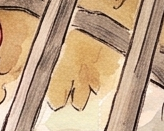
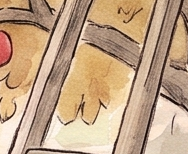
第3回：監査の差し戻し1に対応（第5問②はしごの段の範囲を輪郭と両端まで広げる・第5問③の物の幅を実測60pxに）、ショートは監査合格
Claude-Session: https://claude.ai/code/session_01RF3BnfrPSRk1U21VXW6Yry

diff --git a/departments/audit/log.md b/departments/audit/log.md
@@ -14,3 +14,5 @@
 | 2026-11-07 | 002（再審査1） | 本番 第2回 秋の間違い探し5問「いちょうと菊」video.mp4（2026-11-07 01:30版・615秒）・q1/q4/q5_b・answers.json・timeline.json・plan.md・cost.md（コミット 79bd8ad） | 合格 | 前回の5点は解消：(1) 第4問②・第5問②は、画面の大きさ（960×1080）でも3倍に拡大しても、はす口・鳥の輪郭は見えない。本物の線の外で、a より暗く紙より8段階以上暗い画素は第5問0、第4問14（塀のにじみの所で、残像の形ではない）。(2) 第4問③はけむりを元に戻し、地面の落ち葉1枚の左右反転に差し替え（範囲 [366,1603,466,1675]、物の幅1.89%・変わった範囲2.07%、許容0.2の内で中級の「向き」）。画面で向きの違いがわかる。(3) 第1問②は増えた1輪だけを壁の所に貼り、元の3輪は差0（変わった範囲3.61%）。(4) u3 は「中国では、葉の形が鴨の足に似ているので『鴨脚』と書いたそうです。」、カード「鴨脚（ヤーチャオ）」。出典は大辞泉（表記・宋音）と近畿大学資料・公孫樹譜（見立て）で合う。声は6.73秒で8秒の枠に収まる。(5) cost.md：入力7,830、声56回・1,043字（usage.jsonl と一致）、残高の差0.046935ドル。範囲の外の差は全問で範囲から11px以内。q2・q3 と a の絵、説明欄、サムネは前の審査から変わっていない。44セリフとも枠に収まる。注意：u3 の声は「鴨脚」を意味で「かものあし」と読み、カードの読み「ヤーチャオ」と違うが、事実の誤りではないので認める。一発合格ではない（差し戻し1回）。 |
 | 2026-11-08 | 001 ショート | 第1回 第4問（台所・中級）縦1080×1920・42.6秒 video.mp4（4,215,015バイト）・timeline.json・description.md・check.json・voice.json・sheet.png | 合格（一発合格） | 上の絵＝q4_a、下の絵＝q4_b（元の絵との差で確認）。上下の絵の差は全部 answers.json の3つの範囲の中（範囲の外0）。35.5秒の画面で赤丸6つ（上下×3）が answers.json の位置（×0.75＋絵の位置）と一致。番号札は重ならない。散らばり：中心の距離の最小40%・すき間17%（目安30%・10%を満たす）。長さ42.6秒、0.3秒から問いかけの字幕と声、25秒で時間切れ、36.6秒から「続きは 長い動画で」とこよみ先生（shorts.md どおり）。声6つとも枠に収まる。タイトル・説明欄は中身（違い3つ・中級・台所・全5問・1問90秒）と一致し、誇大・医学的な表現なし。長尺のURLとタイトルは upload.json と一致。こよみ先生は絵に重ならない（冒頭は左のすき間、最後は答え合わせの後）。注意（不合格ではない）：(1) 冒頭の字幕が「上と下の絵で、違いが／3つあります。見つけられますか。」と主語と述語の間で折り返す（wrap2 が16字で、1文目が17字のため）。(2) 冒頭の字幕は3.5秒で消え、声は4.9秒まで続く。(3) 長尺の予約公開（11/9 7:00）と関連動画の設定はCEOの作業。ショート12:00より前に長尺が公開されていること。 |
 | 2026-11-08 | 002 ショート | 第2回 第3問（駅のホーム・中級）縦1080×1920・42.6秒 video.mp4（4,323,854バイト）・timeline.json・description.md・check.json・voice.json・sheet.png | 不合格（差し戻し） | 合格：上の絵＝q3_a、下の絵＝q3_b。差は全部3つの範囲の中。赤丸6つは answers.json の位置と一致。長さ・冒頭の問いかけ・長尺への案内・声の枠・タイトル・説明欄・URL（upload.json と一致）は001と同じく合格。差し戻しの理由：(1) 違い2（かさの持ち手）と3（落ち葉）の中心の距離が絵の幅の27.3%で、散らばりの目安30%（ep_check.py、ng-list 2026-11-08、チェックリスト）を満たさない。ショートは11/8に作った新しい成果物なので、長尺が規則の前に監査済みでも、この規則を当てる。第2回の5問はどれも目安を満たさない（最小の中心距離：第1問15%・第2問8%・第3問27%・第4問20%・第5問9%）ので、別の問への差し替えでは直らない。(2) 意見：下の絵の違い3（落ち葉）は画面の y≈1640〜1696 で、ショートの画面の下に出るチャンネル名・タイトルの文字にかかる位置。長尺でも字幕にかかって150px上げた所で、同じ問題がくり返す。直し方：(a) ショート用に、増えた落ち葉を画像APIを使わずに（ep002_q3_leaf.py と同じ方法）、かさから30%以上離れ、y≈1550より上（下の絵の中で上から約65%まで）の所に置き直し、範囲・赤丸・answers を作り直して再審査に出す。(b) 規則の前に作った回のショートを例外にするかは監査では決められないので、例外にするなら事業部長がCEOに相談する。 |
+| 2026-11-08 | 003 | 本番 第3回 秋の間違い探し5問「さざんかとりんご」（八百屋・玄関先・喫茶店・バス停・果樹園）video.mp4 615秒・q1〜q5・answers.json・check.json・timeline.json・plan.md・description.md・thumbnail.jpg・cost.md・image_usage.jsonl・edits/・voice.json（コミット 7316e47） | 不合格（差し戻し） | 合格：範囲の外の差は全問で範囲から10px以内（12pxより外で差>15は0）。動画の絵は q*_a/b と一致し、赤丸15組は answers.json の位置と一致。散らばり：中心の距離の最小30.2%（第1問①③）、すき間は全組10%以上。目次12か所は timeline と一致。声のカナ・45セリフとも枠に収まる。ヒントなし。うんちく（立冬初候「山茶始開」＝つばきはじめてひらく、実際に咲くのはさざんか、「山茶」はつばきの漢名、さざんかは「さんさか」の音変化）は出典2つの内容と合う。場面・題材・うんちくは第1・2回と重ならない。サムネは「秋の間違いさがし」入り・1280×720・204KB・第3問の絵で中身と一致。医学的な表現なし。費用：13回すべてバッチ、トークン合計は image_usage と一致、約131円・11月累計約1,036円。申告1（変わった幅＞物の幅）：第1問②・第1問③・第2問③・第4問①は、増えた幅が抜いた物の跡・影・同じ物の描き直しで、見える違いは物1つなので認める（第1問②4.01%・第1問③／第2問③2.96%は許容0.2の内）。申告2：第4問②のハンドル近くの線は元の絵にもあるブレーキのワイヤーで、かごの残像ではないので認める。差し戻しの理由：第5問②はしごの段の消し残り。q5_b で、消した段の上の輪郭線（元の絵 x≈998〜1070, y≈1083〜1090）、左の柱に段の丸い端（x≈990〜1000）、右の柱に短い線（x≈1061〜1067, y≈1105）が残り、輪郭の画素は周りの地（約190）より50〜130段階暗い。画面の大きさでも「段が細い線になった」ように見える。範囲 [994,1086,1062,1121] が段の輪郭と両端を含まず、ぼかしの縁で元の線が半分残ったため（申告3の「1段の所だけ貼る」方法自体はよいが、範囲が狭すぎる）。直し方：範囲を段の輪郭と両端まで（目安 [984,1074,1074,1128]、ぼかしの幅を足す）広げて貼り直す。版1の柱がずれて広げられないなら、柱は元の絵のまま、柱の間だけを周りの地でうめるプログラムで消す（画像APIは使わない）か、別の上級の違いに替える。直したら、元の段の輪郭の上で地より20段階以上暗い画素が0に近いことを数値で示す。注意（不合格ではない）：第3問①の時計で、元の長針の先（x≈478〜494, y≈458〜474）にうすい灰色のしみ（紙より最大40段階暗い、29画素、画面で約3px）が残る。形は見えないので認めるが、貼り直しのついでに消すとよい。第5問③の落ち葉の物の幅は実測約60px（1.6%）で、answers.json の2.16%は大きすぎる（上級の範囲内なので害はない）。第4問①は模様と一緒に地の色も赤に変わり、中級としては目立つ。 |
+| 2026-11-08 | 003 ショート | 第3回 第3問（喫茶店・中級）縦1080×1920・43.5秒 video.mp4・timeline.json・check.json・voice.json | 合格（一発合格） | 上の絵＝q3_a、下の絵＝q3_b（縮小した絵との差で確認）。違い3つは長尺と同じ範囲で、散らばり（中心の距離の最小38.7%・すき間31.7%）を満たす。長さ43.5秒、0.3秒から問いかけの字幕と声（字幕は「違いが3つあります。／見つけられますか。」で文の切れ目で折り返す）、25秒で答え合わせ、37.5秒から「続きは長い動画で」とこよみ先生。こよみ先生は絵に重ならない。声6つとも枠に収まる。申告5：下の絵の帽子の白い帯は y≈1532〜1590（中心1562）、x≈747〜781。前の審査の目安 y≈1550 より約10px下だが、チャンネル名の行より右・タイトルの行より上で、帯は太く白いので見つけられると判断する。注意：(1) short/description.md は長尺のアップロード後に作るので、ショートのアップロードは長尺の再審査が合格した後。(2) 長尺の直しで q3_a/b を変えたらショートも作り直して再審査。(3) 長尺の予約公開と関連動画の設定はCEOの作業。 |
